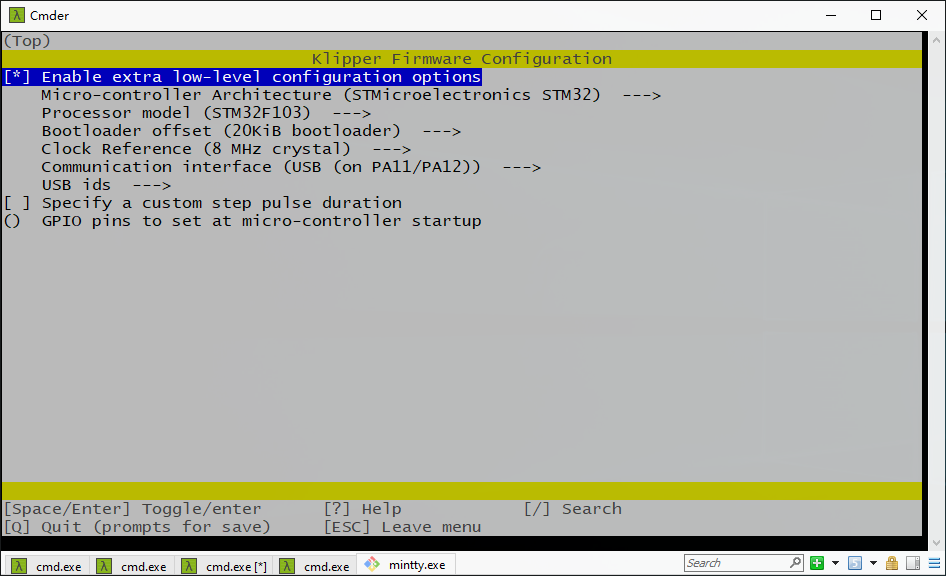
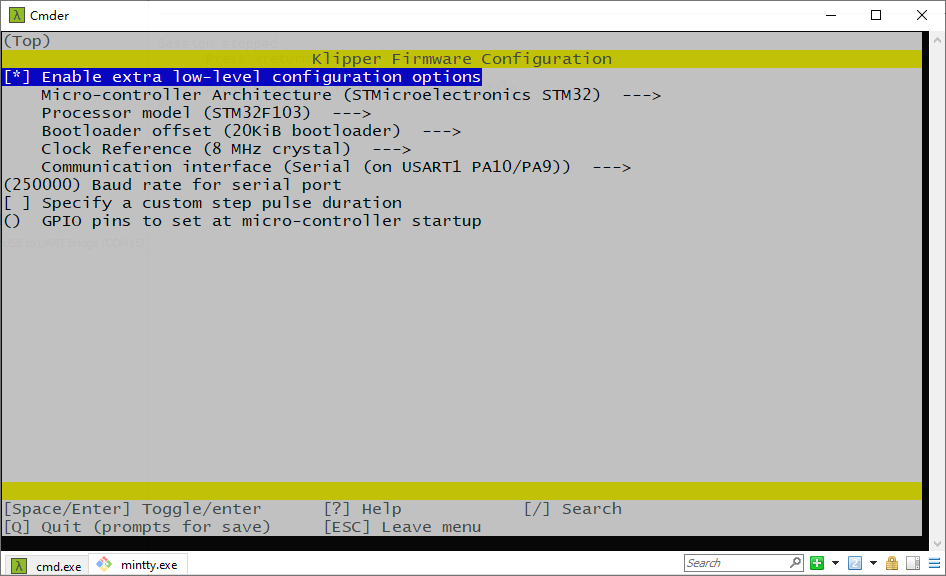
Update klipper related stuff

diff --git a/README.md b/README.md
@@ -77,13 +77,15 @@ Designed for a single-head 3D printer, many interfaces are reserved for more fea
 
 ---
 
+### Marlin
+
 The FYSETC CHEETAH firmware is pre-config for ENDER3 machine, if you want to change the firmware or compile the code yourself , follow the steps.
 
-### Download Vscode + platformio
+#### Download Vscode + platformio
 
 To compile the firmware , you need to install Visual Studio Code and the platformio pulg-in.
 
-### Download firmware
+#### Download firmware
 
 You can download the firmware from
 
@@ -93,7 +95,7 @@ Cheetah V12 : https://github.com/FYSETC/Marlin-2.0.x-FYSETC/tree/CHEETAH/V12
 
 And if you want to know what we have changed , we recommend to use git to get the code .
 
-### Compile the firmware
+#### Compile the firmware
 
 Open Vscode and open platformio main page and click the "Open Project" button , and direct to the folder where you put your firmware.
 
@@ -106,6 +108,18 @@ If everything goes fine , at the bottom you can see several buttons
 Just click check mark to compile.
 
 If you generate the hex file fail you may need to open vscode using Administrator Account .
+
+### Klipper
+
+#### Compile firmware
+
+![image-20210707105817241](images/klipper_menuconfig.png)
+
+If you want to use sdcard bootloader, you can follow the instructions [here](https://github.com/FYSETC/FYSETC-Cheetah/tree/master/bootloader).
+
+After you upload the firmware, please power down Cheetah first, then power on again.  And use the following octoprint parameter.
+
+![image-20210707110514671](images/octoprint_serial.png)
 
 ### Upload the firmware
 

diff --git a/bootloader/README.md b/bootloader/README.md
@@ -124,7 +124,11 @@ And then rebuild the firmware.
 
 You need to select `20KiB bootloader`
 
-![image-20210706172642480](images/klipper.png)
+![](images/klipper.png)
+
+**After you upload the firmware, please power down Cheetah first, then power on again.  And use the following octoprint parameter.**
+
+![image-20210707110514671](images/octoprint_serial.png)
 
 ## Upload firmware with sdcard
 
@@ -137,3 +141,4 @@ After you upload the bootloader and build the firmware, now you can upload it to
 5. And wait for 10~20 seconds (larger the firmware, more time need), it will be done. 
 
 You can check if the `firmware.bin` file in the sdcard been changed to `old.bin`, if so, means success.
+
